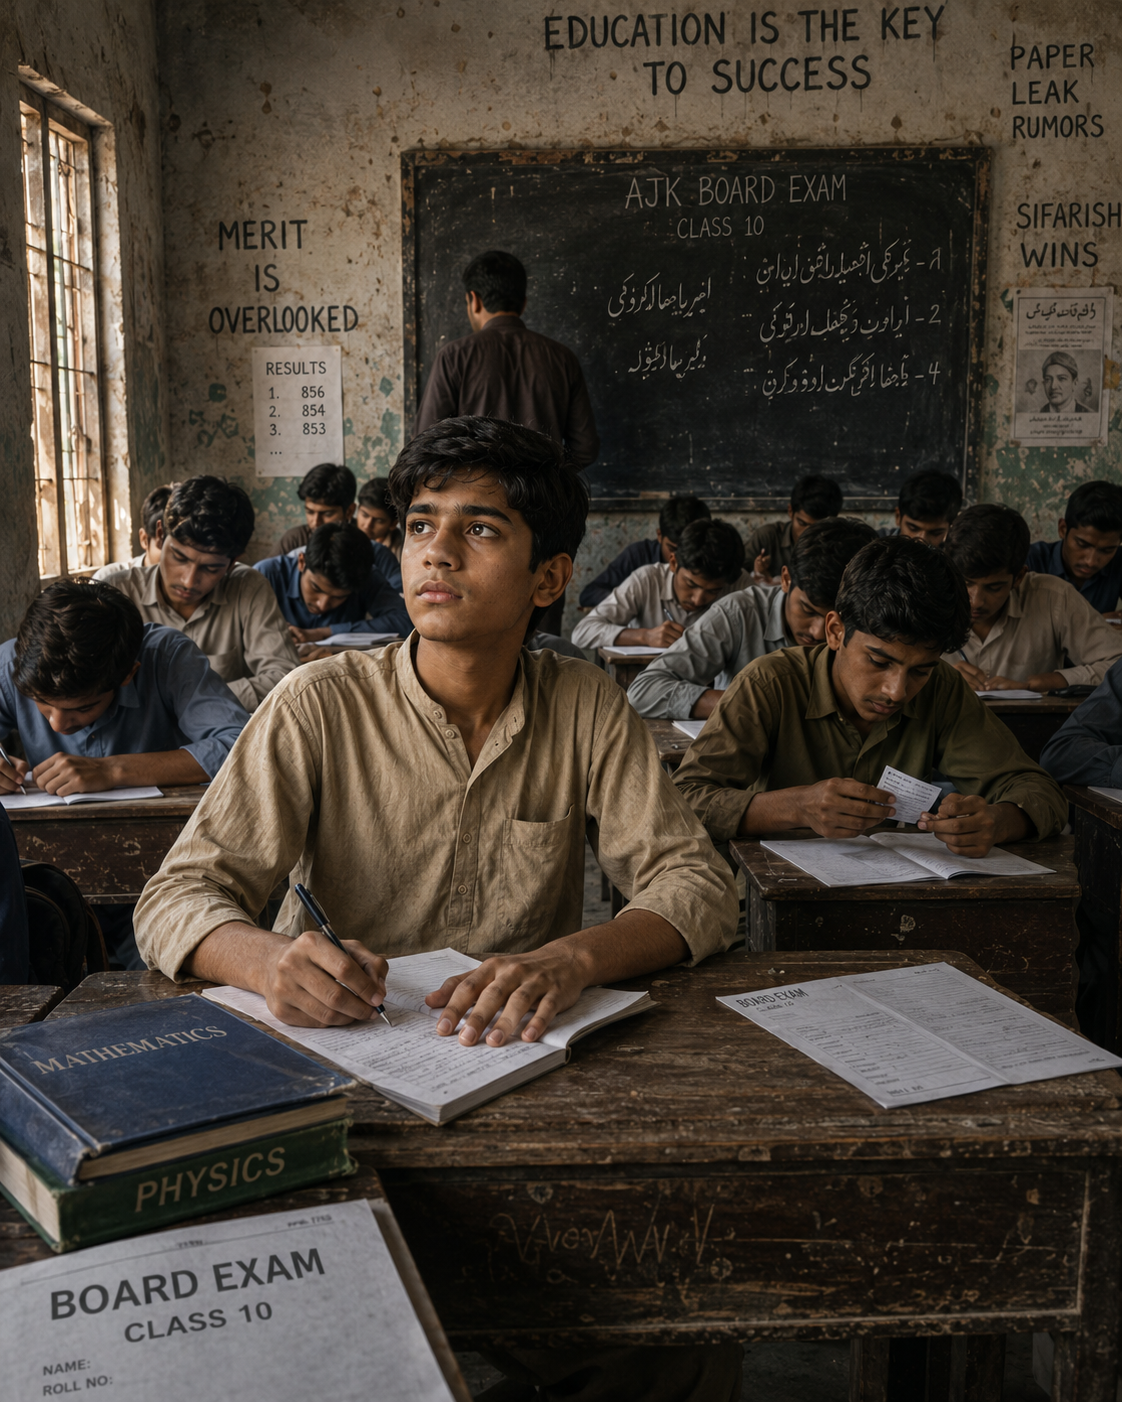
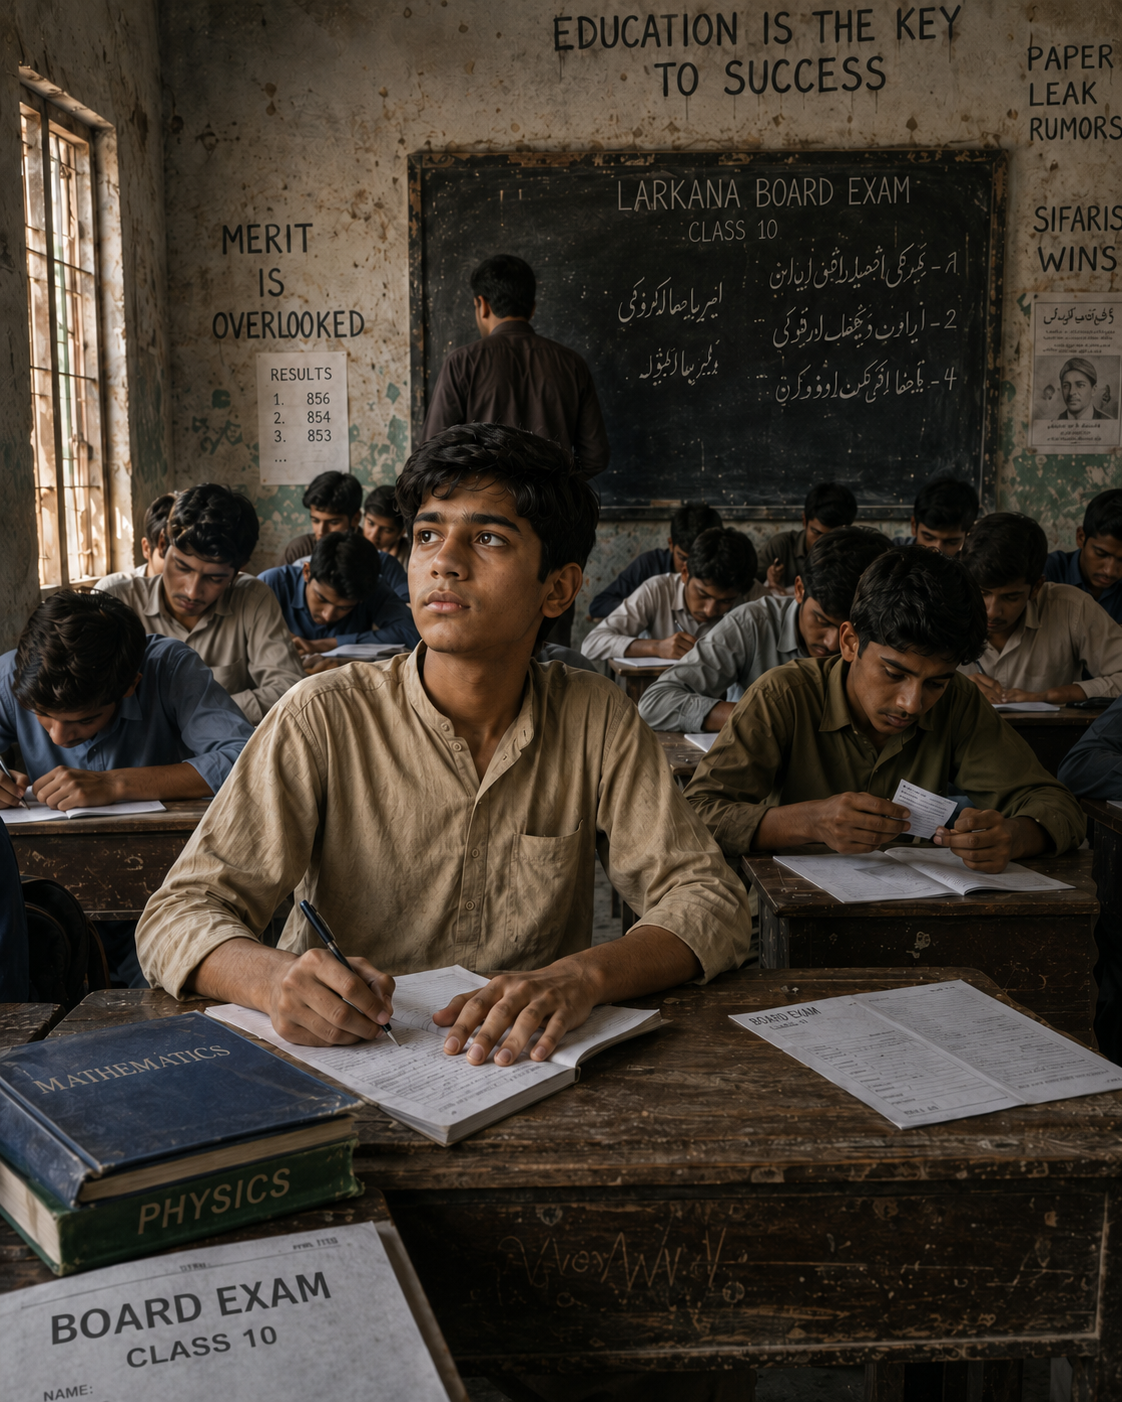
Added Next Goal to My Story

diff --git a/assets/my-story.css b/assets/my-story.css
@@ -144,7 +144,7 @@ a { color: inherit; text-decoration: none; }
 .hero h1 {
   max-width: 820px;
   margin: 25px 0 0;
-  font: 400 clamp(52px, 8.3vw, 102px)/.92 "DM Serif Display", serif;
+  font: 400 clamp(52px, 8.3vw, 95px)/.92 "DM Serif Display", serif;
   letter-spacing: -.035em;
 }
 .hero h1 em { color: var(--warm); font-weight: 400; }
@@ -159,7 +159,7 @@ a { color: inherit; text-decoration: none; }
 }
 .route {
   display: flex;
-  max-width: 600px;
+  max-width: 720px;
   align-items: center;
   gap: 11px;
   margin-top: 38px;
@@ -169,6 +169,58 @@ a { color: inherit; text-decoration: none; }
   text-transform: uppercase;
 }
 .route i { width: clamp(12px, 3vw, 36px); height: 1px; background: var(--line); }
+.route > span,
+.route > i { flex: 0 0 auto; }
+.route-future {
+  display: inline-flex;
+  align-items: center;
+  gap: 11px;
+}
+.route .route-future-line {
+  height: 1px;
+  background: repeating-linear-gradient(90deg, rgba(69, 227, 184, .8) 0 4px, transparent 4px 8px);
+}
+.route-goal {
+  position: relative;
+  display: inline-flex;
+  min-width: 64px;
+  align-items: center;
+  justify-content: center;
+  padding: 7px 13px;
+  border: 1px solid rgba(69, 227, 184, .55);
+  border-radius: 999px;
+  color: var(--signal);
+  background: rgba(69, 227, 184, .08);
+  box-shadow: 0 0 0 3px rgba(69, 227, 184, .035), 0 0 18px rgba(69, 227, 184, .12);
+  animation: goal-pulse 3.2s ease-in-out infinite;
+}
+.route-goal::before {
+  width: 5px;
+  height: 5px;
+  margin-right: 7px;
+  border-radius: 50%;
+  background: currentColor;
+  box-shadow: 0 0 8px currentColor;
+  content: "";
+}
+.route-goal small {
+  position: absolute;
+  bottom: calc(100% + 6px);
+  left: 50%;
+  color: var(--warm);
+  font: 500 8px/1 "IBM Plex Mono", monospace;
+  letter-spacing: .13em;
+  white-space: nowrap;
+  transform: translateX(-50%);
+}
+.route-goal strong {
+  font: 500 11px/1 "IBM Plex Mono", monospace;
+  letter-spacing: .13em;
+}
+@keyframes goal-pulse {
+  0%, 100% { border-color: rgba(69, 227, 184, .45); box-shadow: 0 0 0 3px rgba(69, 227, 184, .025), 0 0 14px rgba(69, 227, 184, .08); }
+  50% { border-color: rgba(69, 227, 184, .8); box-shadow: 0 0 0 4px rgba(69, 227, 184, .055), 0 0 24px rgba(69, 227, 184, .2); }
+}
 .hero-image {
   position: absolute;
   z-index: 1;
@@ -436,6 +488,7 @@ footer {
   .hero-lede { margin-top: 26px; font-size: 16px; }
   .route { flex-wrap: wrap; gap: 9px; margin-top: 28px; font-size: 9.5px; }
   .route i { width: 13px; }
+  .route-future { margin-left: auto; gap: 9px; }
   .hero-image { height: auto; min-height: 0; }
   .hero-image figcaption { right: 18px; bottom: 18px; max-width: calc(100% - 36px); text-align: right; }
   .chapter { padding: 78px 0; }
@@ -449,5 +502,6 @@ footer {
 @media (prefers-reduced-motion: reduce) {
   html { scroll-behavior: auto; }
   .scroll-cue span { animation: none; }
+  .route-goal { animation: none; }
   .reveal { opacity: 1; transform: none; transition: none; }
 }

diff --git a/my-story.html b/my-story.html
@@ -36,10 +36,14 @@
     <section class="hero">
       <div class="wrap hero-copy">
         <div class="hero-label">A personal journey · 2000—present</div>
-        <h1>From Village <span class="desktop-to">to</span><br><em><span class="mobile-to">to </span>Aerospace<span class="mobile-break"><br></span> Engineering</em></h1>
+        <h1>From a Villager <span class="desktop-to">to</span><br><em><span class="mobile-to">to </span>Aerospace<span class="mobile-break"><br></span> Engineer</em></h1>
         <p class="hero-lede">A story about the distance between where I began and where I am still trying to go and the family, work and persistence that made every mile possible.</p>
-        <div class="route" aria-label="Journey: Larkana to Islamabad to Türkiye to Munich">
+        <div class="route" aria-label="Journey: Larkana to Islamabad to Türkiye to München, with MIT as the next goal">
           <span>Larkana</span><i></i><span>Islamabad</span><i></i><span>Türkiye</span><i></i><span>München</span>
+          <span class="route-future">
+            <i class="route-future-line"></i>
+            <span class="route-goal"><small>Next goal</small><strong>MIT</strong></span>
+          </span>
         </div>
       </div>
       <figure class="hero-image">
